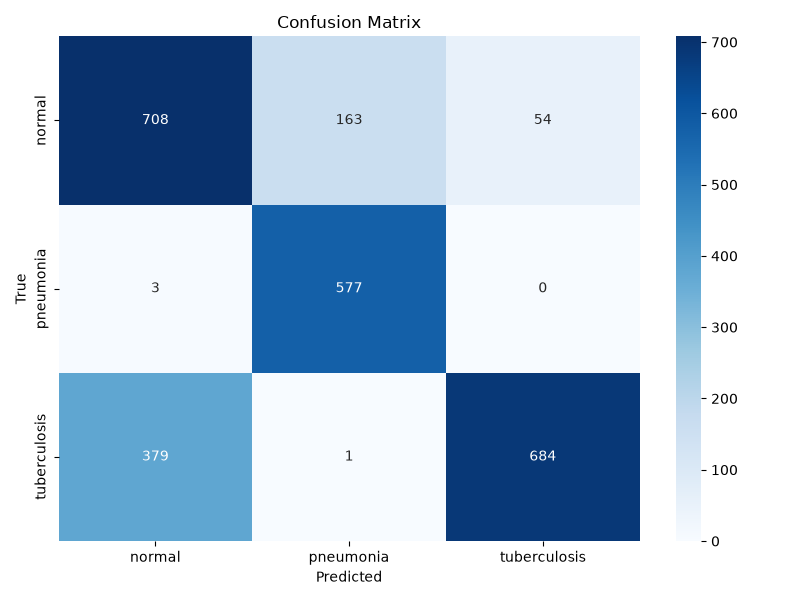
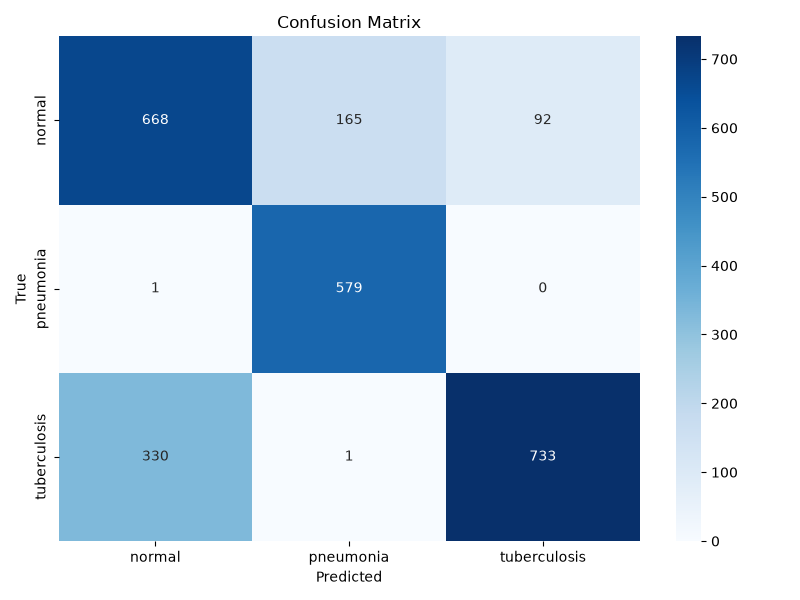
All models training and evaluation complete

diff --git a/models/model_factory.py b/models/model_factory.py
@@ -1,0 +1,45 @@
+import torch
+from torchvision import models
+
+
+def get_model(model_name, num_classes):
+
+    model_name = model_name.lower()
+
+    if model_name == "resnet50":
+
+        model = models.resnet50(
+            weights=models.ResNet50_Weights.DEFAULT
+        )
+
+        model.fc = torch.nn.Linear(
+            model.fc.in_features,
+            num_classes
+        )
+
+    elif model_name == "densenet121":
+
+        model = models.densenet121(
+            weights=models.DenseNet121_Weights.DEFAULT
+        )
+
+        model.classifier = torch.nn.Linear(
+            model.classifier.in_features,
+            num_classes
+        )
+
+    elif model_name == "efficientnet_b3":
+
+        model = models.efficientnet_b3(
+            weights=models.EfficientNet_B3_Weights.DEFAULT
+        )
+
+        model.classifier[1] = torch.nn.Linear(
+            model.classifier[1].in_features,
+            num_classes
+        )
+
+    else:
+        raise ValueError(f"Unknown model: {model_name}")
+
+    return model

diff --git a/configs/config.py b/configs/config.py
@@ -21,3 +21,5 @@ EARLY_STOPPING_PATIENCE = 5
 DEVICE = torch.device(
     "cuda" if torch.cuda.is_available() else "cpu"
 )
+# resnet50,densenet121,efficientnet_b3
+MODEL_NAME = "efficientnet_b3"